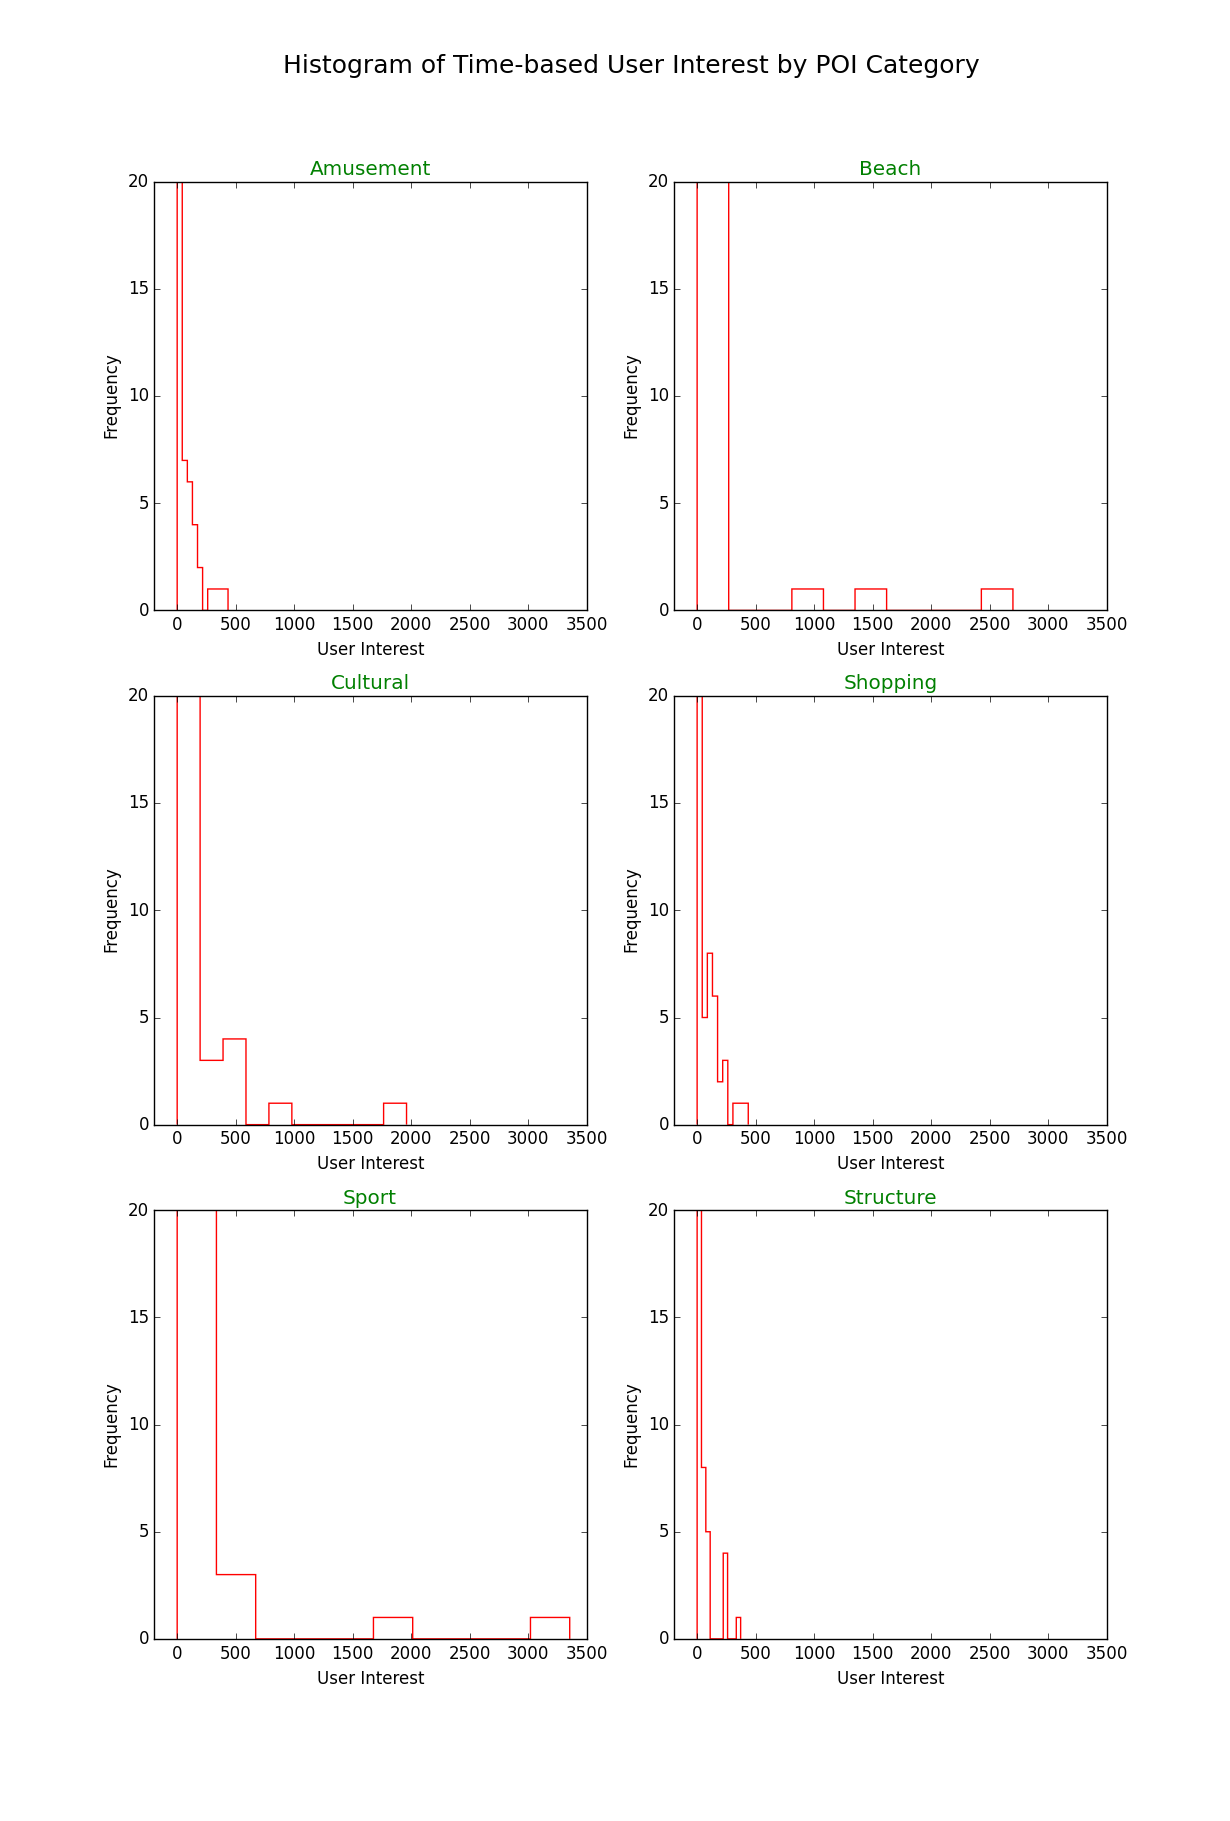
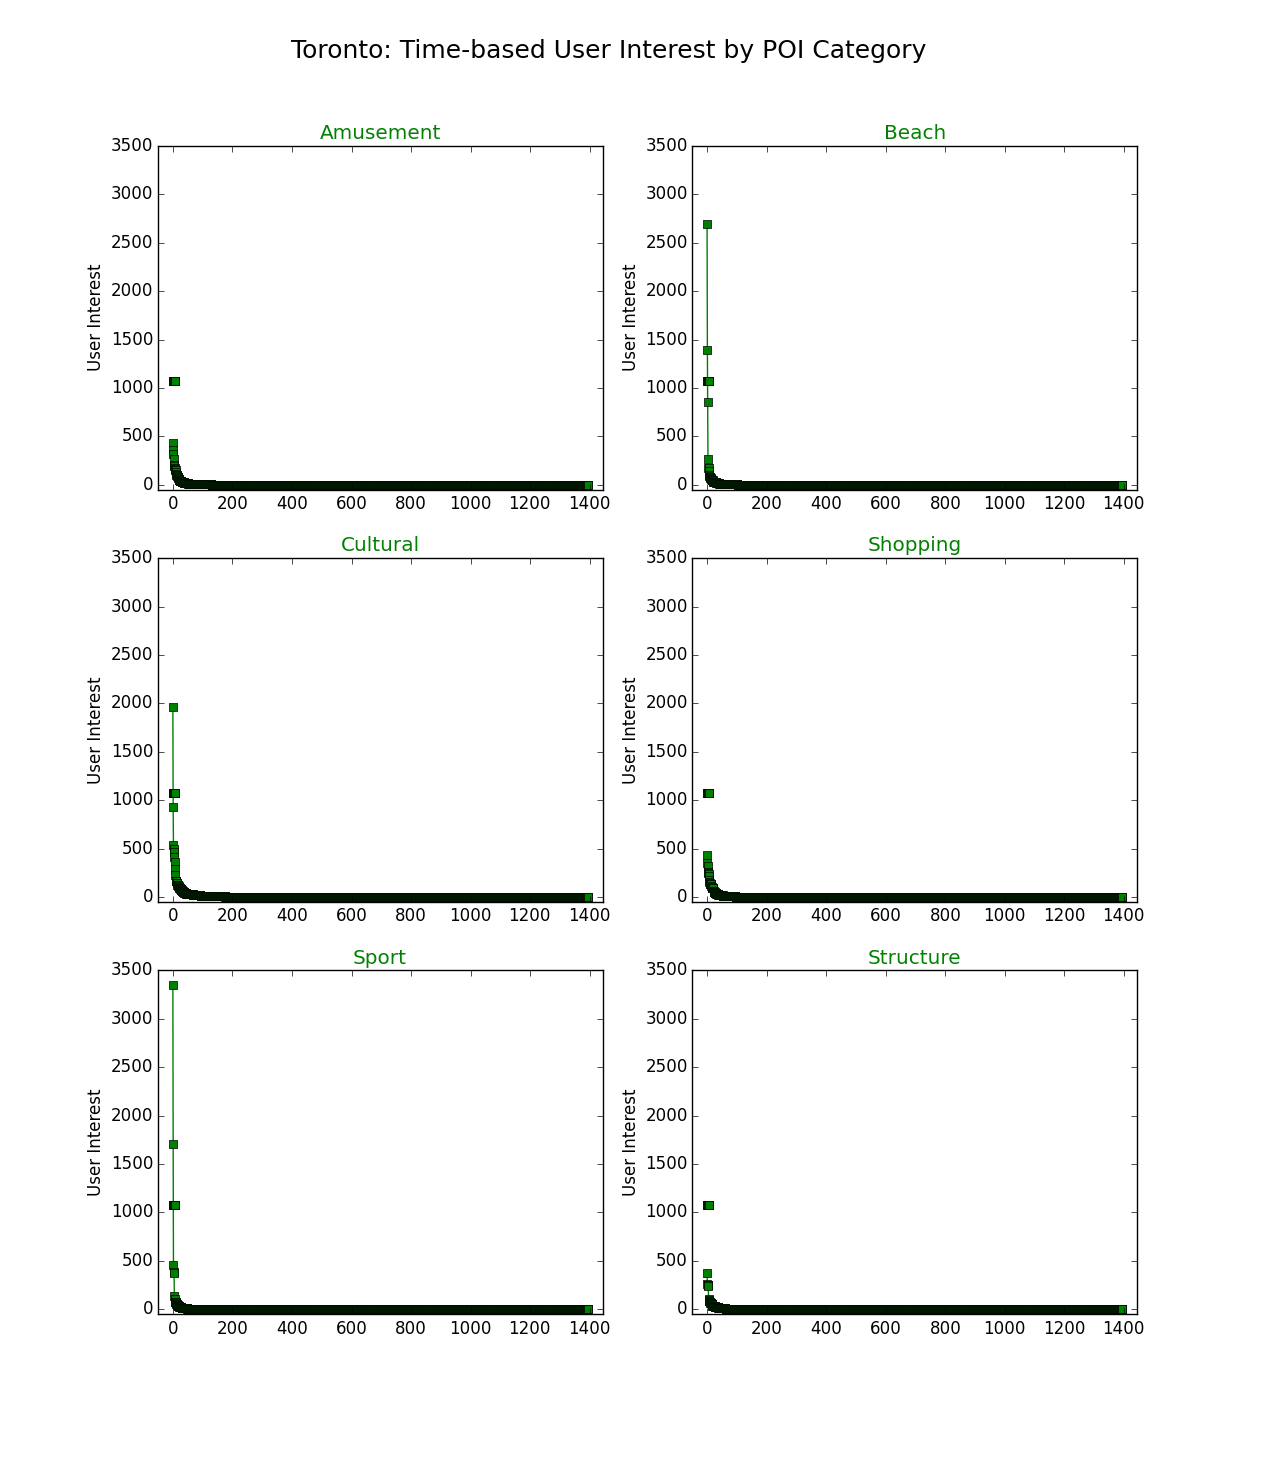
replot images

diff --git a/example/ijcai15/ijcai15.py b/example/ijcai15/ijcai15.py
@@ -1,6 +1,7 @@
 import math
 import pulp
 import re
+import random
 import numpy as np
 import statistics as stat
 import matplotlib.pyplot as plt
@@ -290,6 +291,74 @@ class PersTour:
 
 
     def plot_metrics(self):
+        """Plot POI popularity and time-based user interest for each POI category"""
+        city = self.dirname.split('/')[-1]
+        nrows = math.ceil(len(self.catmap) / 2)
+        y_pop = [list([self.poi_pop[j] for j in range(len(self.poimap)) if self.poicat[j] == i]) for i in range(len(self.catmap))]
+        xmax = max(list([len(x) for x in y_pop]))
+        ymax = round(max(self.poi_pop), -2) + 100
+        fig1 = plt.figure(1)
+        fig1.text(0.3, 0.96, city + ': POI Popularity by Category', fontsize=18)
+        for r in range(nrows):
+            for c in range(2):
+                idx = r*2 + c
+                if idx >= len(y_pop): continue
+                plt.subplot(nrows, 2, idx+1)
+                plt.axis([-1, xmax, -50, ymax])
+                #plt.xlabel('POI')
+                plt.ylabel('Popularity')
+                plt.plot(sorted(y_pop[idx]), 's-c', label='popularity')
+                xx = np.arange(-1, xmax, 1)
+                #yy = np.ones(len(xx), dtype=np.float32) * stat.mean(y_pop[idx]) 
+                #TypeError: can't convert type 'int32' to numerator/denominator
+                #http://bugs.python.org/issue20481
+                yy = np.ones(len(xx), dtype=np.float32) * sum(y_pop[idx])/len(y_pop[idx])
+                plt.plot(xx, yy, '-g', label='mean')
+                plt.legend()
+                for k, v in self.catmap.items():
+                    if v == idx: plt.title(k, color='g'); break
+        fig1.show()
+
+        xmax = len(self.usrmap) + 50
+        ymax = round(np.max(self.time_usr_interest), -2) + 100
+        fig2 = plt.figure(2)
+        fig2.text(0.23, 0.96, city + ': Time-based User Interest by POI Category', fontsize=18)
+        for r in range(nrows):
+            for c in range(2):
+                idx = r*2 + c
+                if idx >= np.shape(self.time_usr_interest)[1]: continue
+                plt.subplot(nrows, 2, idx+1)
+                plt.axis([-50, xmax, -50, ymax])
+                #plt.xlabel('User')
+                plt.ylabel('User Interest')
+                plt.plot(sorted(self.time_usr_interest[:, idx], reverse=True), 's-g')
+                #plt.loglog(sorted(self.time_usr_interest[:, idx], reverse=True), 's-g', basey=2)
+                #print(sorted(self.time_usr_interest[:, idx], reverse=True))
+                #yy = [math.log2(x) for x in sorted(self.time_usr_interest[:, idx], reverse=True)]
+                plt.plot(yy, 's-g')
+                for k, v in self.catmap.items():
+                    if v == idx: plt.title(k, color='g')
+        fig2.show()
+ 
+        ymax = round(np.max(self.freq_usr_interest), -2) + 100
+        fig3 = plt.figure(3)
+        fig3.text(0.23, 0.96, city + ': Frequency-based User Interest by POI Category', fontsize=18)
+        for r in range(nrows):
+            for c in range(2):
+                idx = r*2 + c
+                if idx >= np.shape(self.freq_usr_interest)[1]: continue
+                plt.subplot(nrows, 2, idx+1)
+                plt.axis([-50, xmax, -50, ymax])
+                #plt.xlabel('User')
+                plt.ylabel('User Interest')
+                plt.plot(sorted(self.freq_usr_interest[:, idx], reverse=True), 's-g')
+                #plt.plot(sorted(self.freq_usr_interest[:, idx]), 's-g')
+                for k, v in self.catmap.items():
+                    if v == idx: plt.title(k, color='g')
+        fig3.show()
+
+
+    def plot_histograms(self):
         """Plot histogram POI popularity and time-based user interest for each POI category"""
         nrows = math.ceil(len(self.catmap) / 2)
         y_pop = [list([self.poi_pop[j] for j in range(len(self.poimap)) if self.poicat[j] == i]) for i in range(len(self.catmap))]
@@ -298,7 +367,7 @@ class PersTour:
         #    y_pop.append(list([self.poi_pop[j] for j in range(len(self.poimap)) if self.poicat[j] == i]))
         xmax = round(max(self.poi_pop), -2) + 100
         fig1 = plt.figure(1)
-        fig1.text(0.3, 0.96, 'Histogram of POI Popularity by Category', fontsize=18)
+        fig1.text(0.23, 0.96, 'Histogram of POI Popularity by Category', fontsize=18)
         for r in range(nrows):
             for c in range(2):
                 idx = r*2 + c
@@ -358,14 +427,6 @@ class PersTour:
                 plt.title(title, color='g')
         fig3.show()
         
-
-
-
-
-
-
-
-
 
     def MIP_recommend(self, seq, eta, lpFilename, time_based=True):
         """Recommend a trajectory given an existing travel sequence S_N, 
@@ -528,21 +589,8 @@ class PersTour:
     def evaluate(self, fseqlist, subdir):
         """Evaluate the recommended itinerary"""
         self.load_sequences(fseqlist, subdir)
-
-        # plot POI category for each sequence: (poi_order, cat, seq_order)
-        fig = plt.figure()
-        ax = fig.gca(projection='3d')
-        for i, k in enumerate(self.recommendSeqs.keys()):
-            #X = X1 = Y = Y1 = Z = Z1 = []  #ERROR: the reference of the same object
-            X = []; Y = []; Z = []; X1 = []; Y1 = []; Z1 = []
-            for j, poi in enumerate(self.recommendSeqs[k]):
-                X.append(j); Y.append(self.poicat[poi]); Z.append(i)
-            for j, poi in enumerate(self.sequences[k]):
-                X1.append(j); Y1.append(self.poicat[poi]); Z1.append(i)
-            ax.plot(X,  Y,  Z,  'g')  # recommended
-            ax.plot(X1, Y1, Z1, 'r')  # actual
-        plt.show()
         self.calc_evalmetrics()
+        self.poicat_stat()
 
 
     def load_sequences(self, fseqlist, subdir):
@@ -665,3 +713,59 @@ class PersTour:
 
         # calculate popularity and interest rank
 
+
+    def plot_recommend(self):
+        """Plot the categories of both actual and recommended itineraries"""
+        assert(len(self.recommendSeqs) > 0)
+
+        # plot POI category for each sequence: (poi_order, cat, seq_order)
+        fig = plt.figure()
+        ax = fig.gca(projection='3d')
+        for i, k in enumerate(self.recommendSeqs.keys()):
+            #X = X1 = Y = Y1 = Z = Z1 = []  #ERROR: the reference of the same object
+            X = []; Y = []; Z = []; X1 = []; Y1 = []; Z1 = []
+            for j, poi in enumerate(self.recommendSeqs[k]):
+                X.append(j); Y.append(self.poicat[poi]); Z.append(i)
+            for j, poi in enumerate(self.sequences[k]):
+                X1.append(j); Y1.append(self.poicat[poi]); Z1.append(i)
+            ax.plot(X,  Y,  Z,  'g')  # recommended
+            ax.plot(X1, Y1, Z1, 'r')  # actual
+        plt.show()
+
+
+    def poicat_stat(self):
+        """Calculate the transition matrix of POI category for both actual and recommended itineraries"""
+        assert(len(self.recommendSeqs) > 0)
+        catstat_visit = np.zeros((len(self.catmap), len(self.catmap)), dtype=np.float) # for actual itineraries
+        catstat_rec   = np.zeros((len(self.catmap), len(self.catmap)), dtype=np.float) # for recommended itineraries
+
+        print('#visit-actual:', len(self.sequences))
+        print('#visit-recomm:', len(self.recommendSeqs))
+        
+        for k, v in self.recommendSeqs.items():
+            for pi in range(len(v)-1):
+                cati = self.poicat[v[pi]]
+                catj = self.poicat[v[pi+1]]
+                catstat_rec[cati, catj] += 1
+            #for pj in range(len(self.sequences[k])-1):  # ignore actual sequences whose length is less than 3
+            #     cati = self.poicat[self.sequences[k][pj]]
+            #     catj = self.poicat[self.sequences[k][pj+1]]
+        for k, v in self.sequences.items(): # do NOT ignore actual sequences whose length is less than 3
+            for pj in range(len(v)-1):
+                cati = self.poicat[v[pj]]
+                catj = self.poicat[v[pj+1]]
+                catstat_visit[cati, catj] += 1
+        # normalize each row to get the transition probability from cati to catj
+        for r in range(np.shape(catstat_rec)[0]):
+            total = np.sum(catstat_rec[r])
+            for c in range(np.shape(catstat_rec)[1]):
+                catstat_rec[r, c] /= total
+        for r in range(np.shape(catstat_visit)[0]):
+            total = np.sum(catstat_visit[r])
+            for c in range(np.shape(catstat_visit)[1]):
+                catstat_visit[r, c] /= total
+        print('transition matrix for recommended sequences:')
+        print(catstat_rec)
+        print('transition matrix for actual sequences:')
+        print(catstat_visit)
+ 
